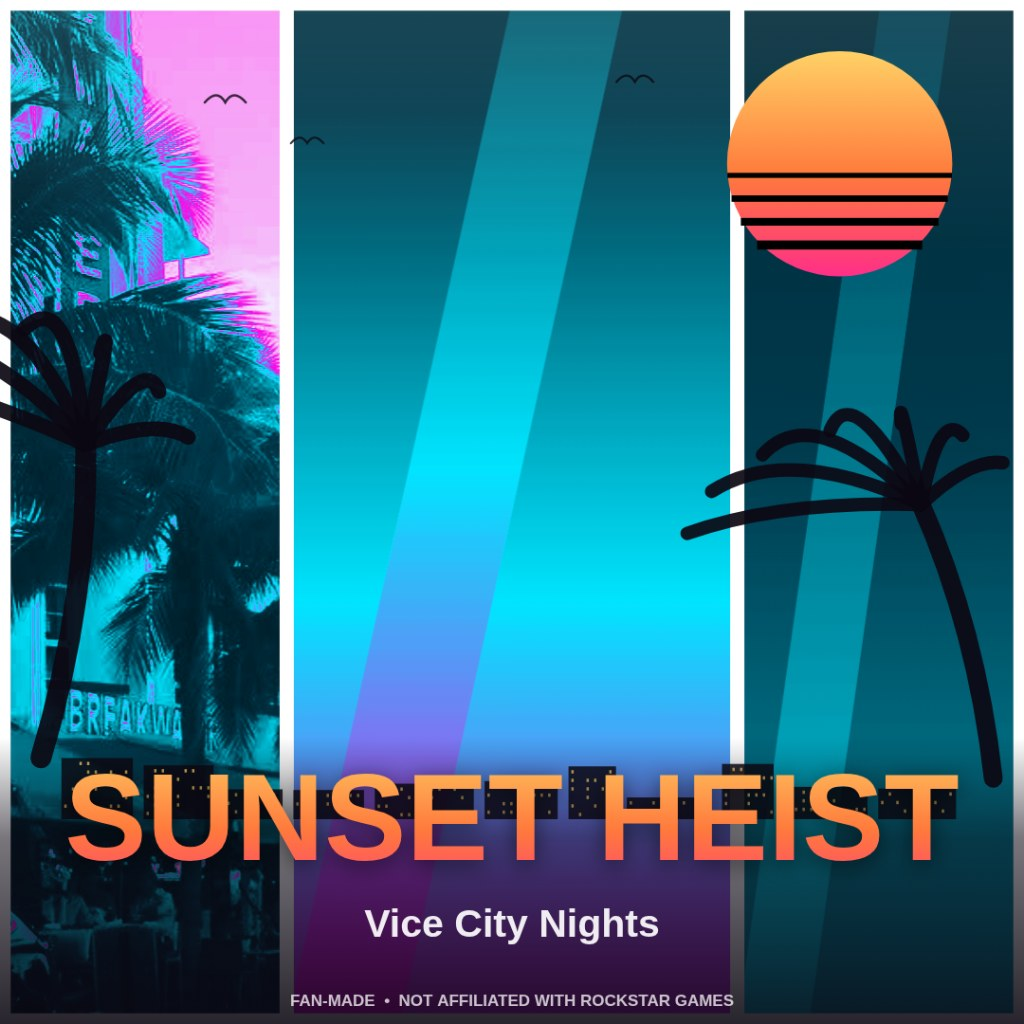
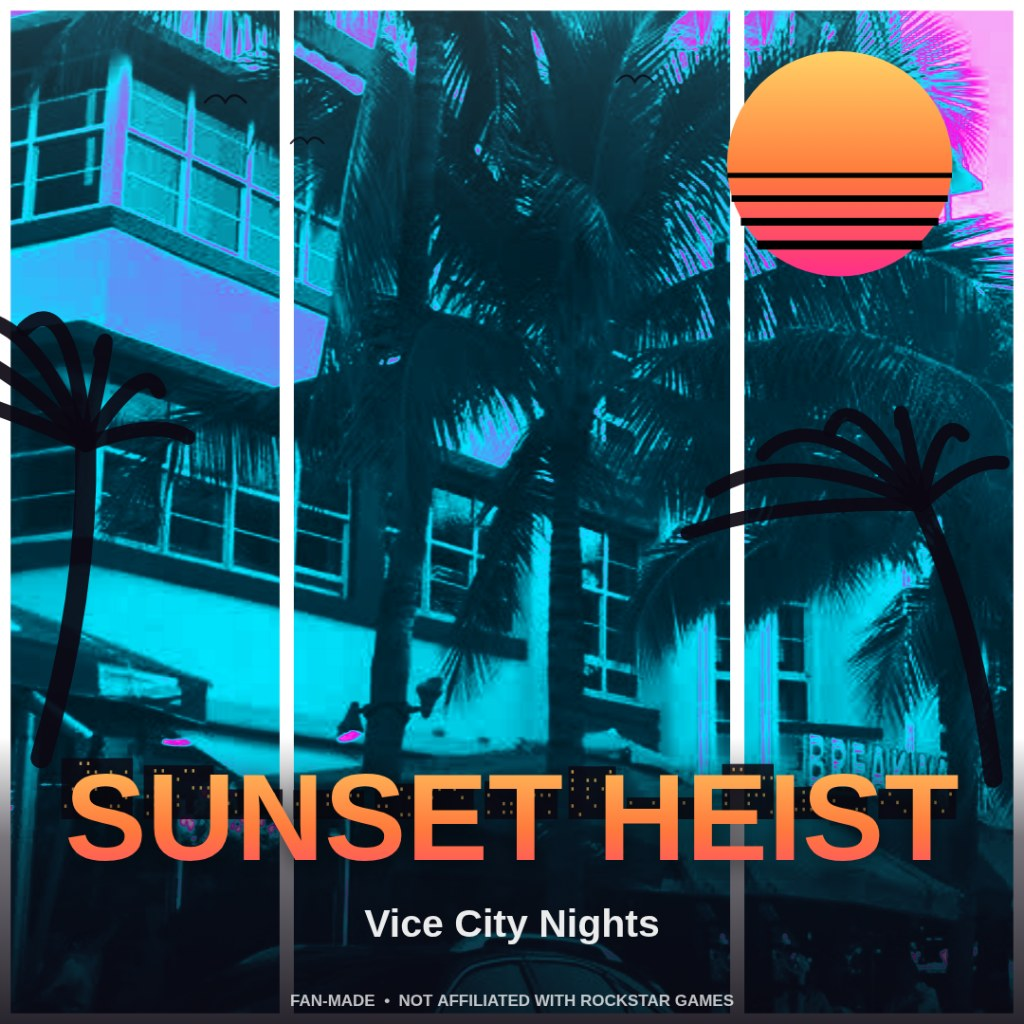
VICE COVER v3: fill all panels in shot scenes

diff --git a/app/src/main.js b/app/src/main.js
@@ -261,9 +261,17 @@ if (shot) {
     const { photo, caption, subtitle, layout, grade, titleStyle } = scene;
     if (photo) {
       try {
-        state.photos[0] = await loadImage(`./samples/${photo}.jpg`);
+        const img = await loadImage(`./samples/${photo}.jpg`);
+        // Shot scenes are photo-led collages: the same shot photo fills
+        // every panel, panned across it so it reads as one continuous
+        // image, not a repeated tile. Normal editor behaviour (user assigns
+        // photos per panel) is untouched — this is the ?shot= path only.
+        for (let i = 0; i < 5; i += 1) {
+          state.photos[i] = img;
+          state.crops[i] = { x: 0.15 + 0.17 * i, y: 0.5, zoom: 1.25 };
+        }
       } catch (err) {
-        state.photos[0] = null;
+        for (let i = 0; i < 5; i += 1) state.photos[i] = null;
       }
     }
     if (caption) { state.title = caption; captionInput.value = caption; }
